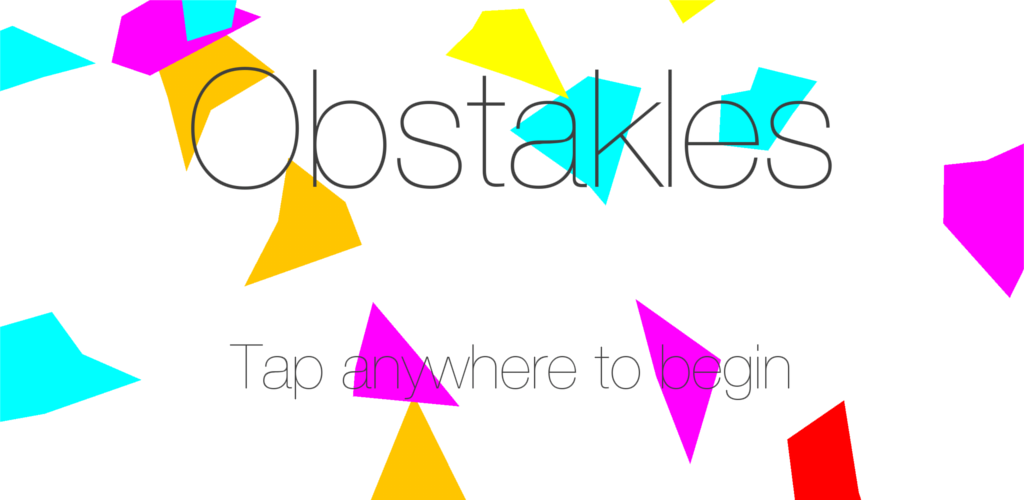
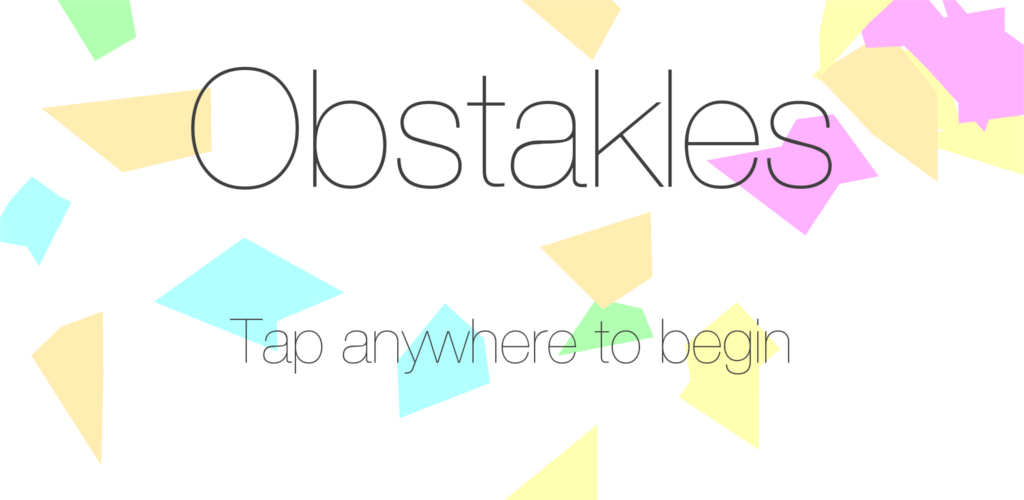
edited android manifest; uploaded new screenshots; uploaded new version to play store

diff --git a/README.md b/README.md
@@ -9,37 +9,42 @@ Another android game.
 
 #Changelog
 ##To do
-- Add instructions
-- Add animation on wall collisions
-- Desaturate obstacle colors
-- Special item to clear all falling obstacles (?)
+- Add instructions;
+- Add animation on wall collisions;
+- Desaturate obstacle colors;
+- Special item to clear all falling obstacles. (?)
+
+##v3.1
+- Fixed game over menu buttons bug;
+- Changed game over menu buttons color scheme;
+- Added translucent filter to main menu.
 
 ##v3.0
-- Added retry button to game over menu
-- Redesigned game over menu and its buttons
-- Removed obstacles outline
-- Fixed bug in collisions detection
-- Enabled auto rotation through landscape modes
-- Fixed other bugs
+- Added retry button to game over menu;
+- Redesigned game over menu and its buttons;
+- Removed obstacles outline;
+- Fixed bug in collisions detection;
+- Enabled auto rotation through landscape modes;
+- Fixed other bugs.
 
 ##v2.1
-- Fixed bug in leaderboards
-- Fixed different update rate on different devices
-- Improved collisions detection speed
+- Fixed bug in leaderboards;
+- Fixed different update rate on different devices;
+- Improved collisions detection speed.
 
 ##v2.0
-- Added leaderboards and achievements
+- Added leaderboards and achievements.
 
 ##v1.0
-- Added obstacles with different shapes
+- Added obstacles with different shapes.
 
 #Screenshots
-![image](screenshots/current-version/main-menu.png)
+![image](screenshots/current-version/7-inch/main-menu.png)
 #####Fig. 1: Main menu
 ***
-![image](screenshots/current-version/game-play.png)
+![image](screenshots/current-version/7-inch/game-play.png)
 #####Fig. 2: Gameplay
 ***
-![image](screenshots/current-version/game-over.png)
+![image](screenshots/current-version/7-inch/game-over.png)
 #####Fig. 3: Game over
 ***
